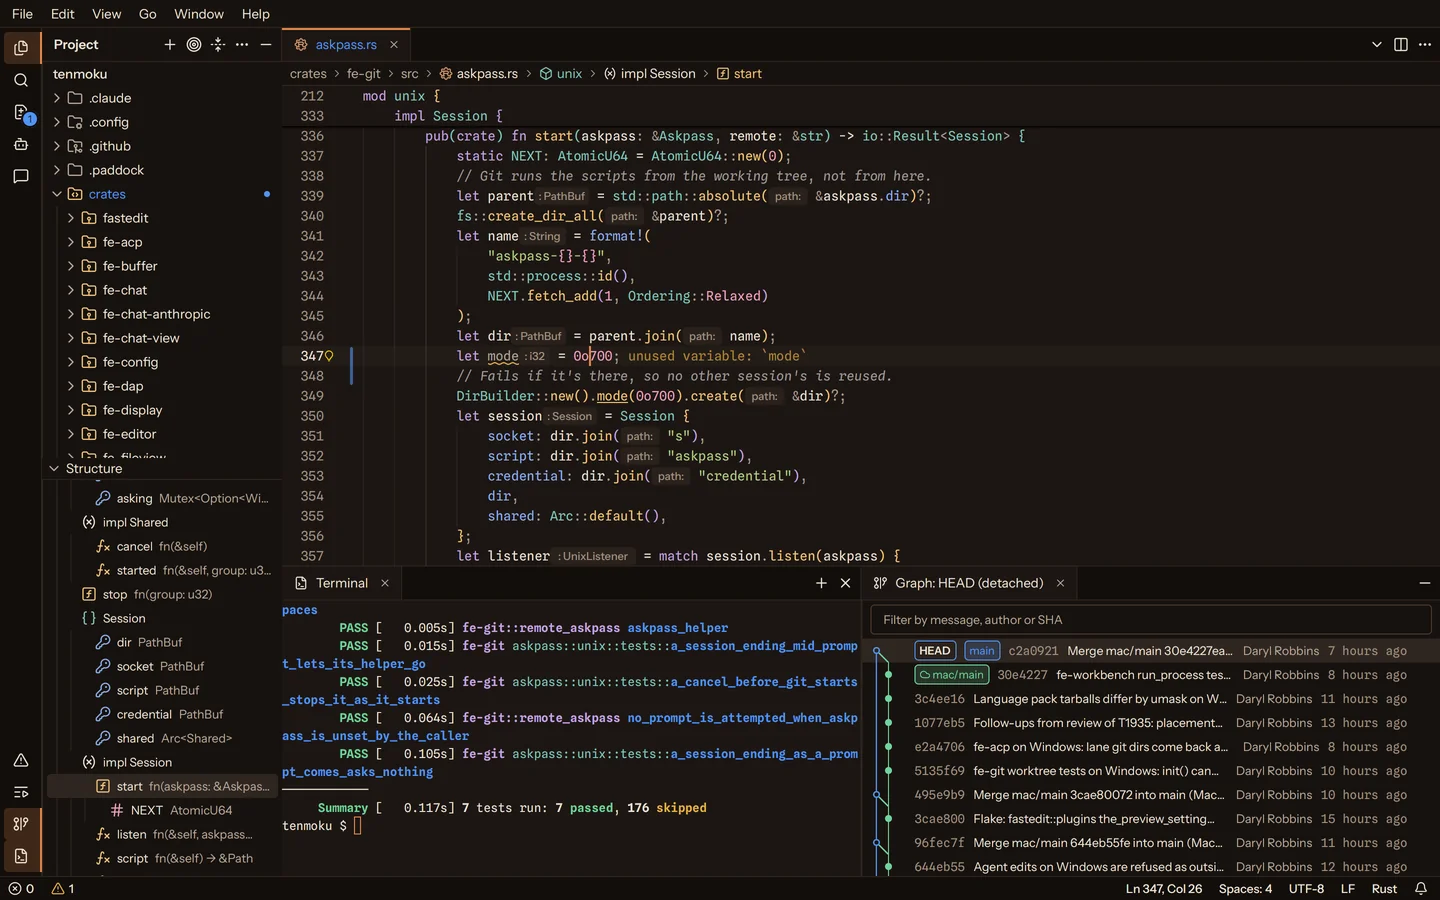
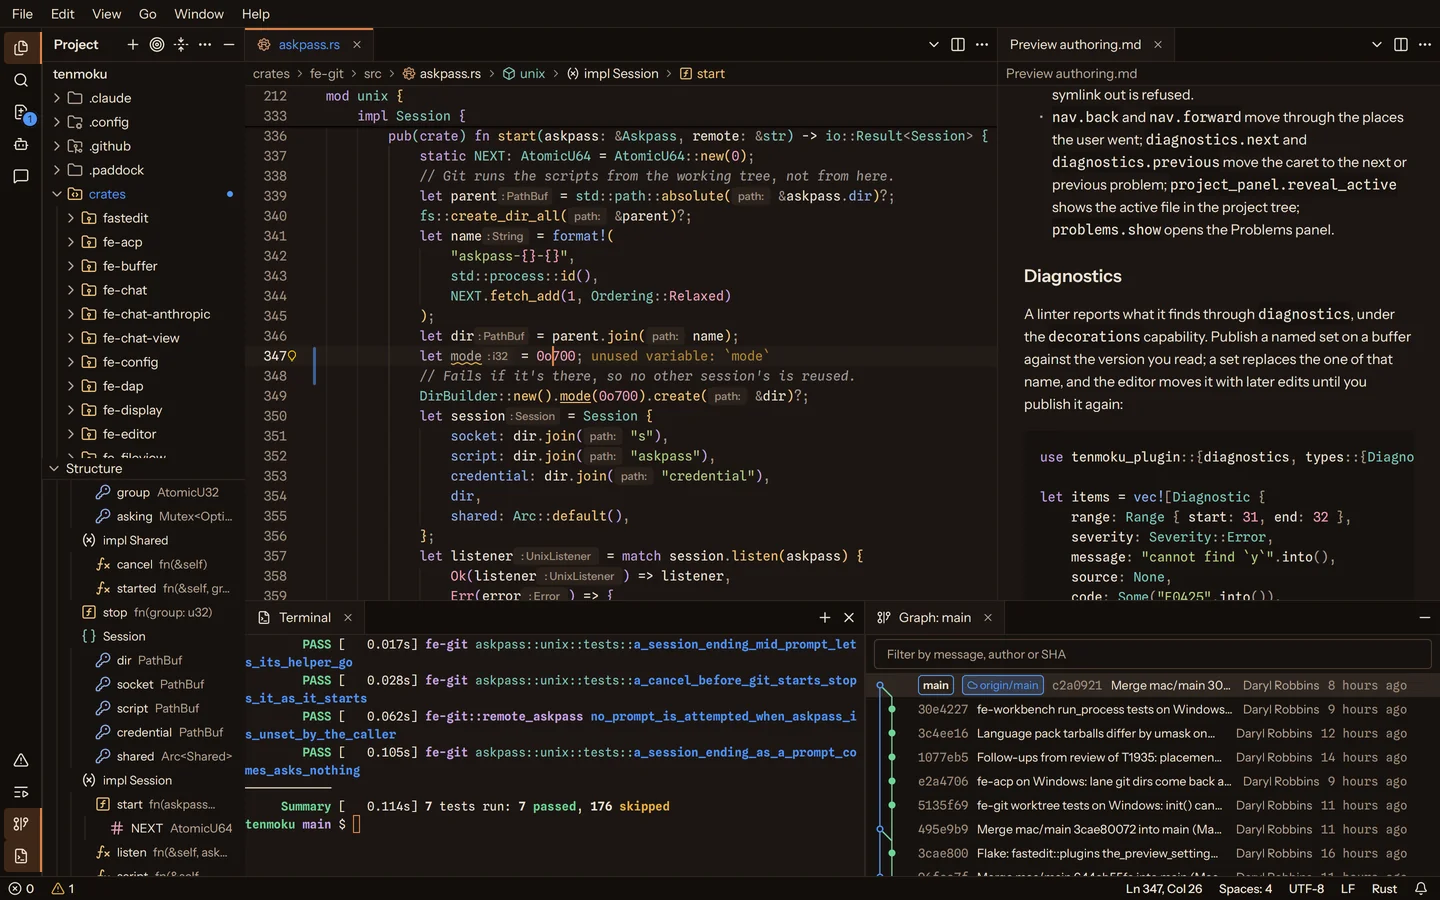
Recapture the new hero: two editor panes with a Markdown preview, graph on main, tidier terminal
The user's second pass on the new composition, on the same v0.2.5 build
(5624be176), with the project a --shared clone of helium main named
tenmoku, so it is on a branch:

- two editor panes: crates/fe-git/src/askpass.rs (breadcrumbs, sticky
  scroll, inlay hints, change bars and the inline unused-variable warning
  from a small uncommitted edit) beside the Markdown preview alone of
  docs/plugins/authoring.md (a list, a heading and a highlighted Rust code
  block); the Markdown source tab is closed;
- the Git graph tab reads "Graph: main", with real authors, subjects and
  sync merges;
- the terminal starts on a whole line after clear, with a coloured
  "tenmoku main $" prompt and no Nerd Font glyphs;
- the Structure view expanded to mod unix > impl Session > start > NEXT;
- narrower sidebar and splits so nothing important is cut off.

The alt text, caption and og:image:alt describe the new shot.

diff --git a/index.html b/index.html
@@ -19,7 +19,7 @@
   <meta property="og:image" content="https://tenmoku.dev/assets/og.png">
   <meta property="og:image:width" content="1200">
   <meta property="og:image:height" content="630">
-  <meta property="og:image:alt" content="The Tenmoku editor with its Structure view, inline diagnostics, a test run in the terminal and the Git graph side by side">
+  <meta property="og:image:alt" content="The Tenmoku editor with a Rust file beside a Markdown preview, the Structure view, and the terminal and Git graph side by side">
   <meta name="twitter:card" content="summary_large_image">
   <link rel="preload" href="assets/fonts/InstrumentSans-Regular.woff2" as="font" type="font/woff2" crossorigin>
   <link rel="stylesheet" href="assets/style.css">
@@ -49,9 +49,9 @@
     <figure class="shot">
       <picture>
         <source srcset="assets/hero.webp 1x, assets/hero@2x.webp 2x" type="image/webp">
-        <img src="assets/hero.png" width="1440" height="900" alt="Tenmoku in its dark theme: on the left the project tree above the Structure view, expanded to a nested symbol tree (module, impl, function, static); in the editor a Rust file from Tenmoku's own Git code with breadcrumbs, sticky scroll, inlay hints, change bars in the gutter and an inline unused-variable warning; below, the terminal showing a passing cargo nextest run beside the Git graph with its branches and merges.">
+        <img src="assets/hero.png" width="1440" height="900" alt="Tenmoku in its dark theme with two editor panes: on the left a Rust file from Tenmoku's own Git code with breadcrumbs, sticky scroll, inlay hints, change bars in the gutter and an inline unused-variable warning; on the right a rendered Markdown preview of the plugin guide with a list, a heading and a highlighted Rust code block. The sidebar shows the project tree above the Structure view, expanded to a nested symbol tree. Below, the terminal shows a passing cargo nextest run beside the Git graph of the main branch with its merges.">
       </picture>
-      <figcaption>Tenmoku editing its own source: the Structure view, inline diagnostics, and the terminal and Git graph side by side.</figcaption>
+      <figcaption>Tenmoku editing its own source: a Rust file beside a Markdown preview, the Structure view, and the terminal and Git graph side by side.</figcaption>
     </figure>
 
     <section id="features" class="features" aria-label="Features">
